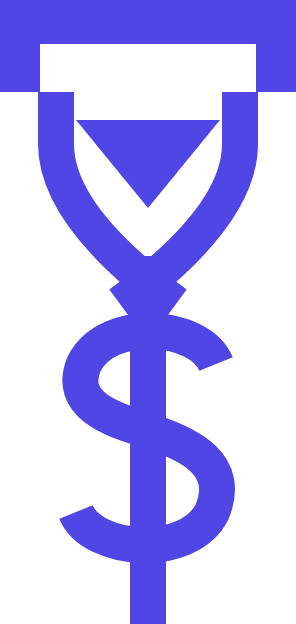
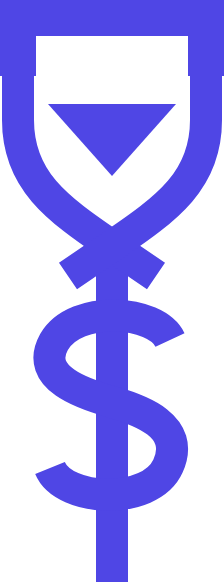
Refine isotipo trace, restore Geist, simplify interim OG image
- Isotipo placeholder re-traced closer to the official mark: symmetric X
  crossing built geometrically, square stroke caps, cleaner funnel walls and $.
  Favicon regenerated accordingly.
- Bring back Geist Sans as the app typeface.
- Opengraph image reduced to a clean lockup + "Trackeá tus horas." headline on
  Light Slate — the recreated floating patterns are gone; the official PNG can
  drop in as src/app/opengraph-image.png when available.
- Landing structure untouched: only logo and indigo palette changed, as before.

Claude-Session: https://claude.ai/code/session_01FHNmgNQmNMMfabfv4jdnkh

diff --git a/src/app/opengraph-image.tsx b/src/app/opengraph-image.tsx
@@ -7,49 +7,11 @@ export const contentType = "image/png";
 const INDIGO = "#4f46e5";
 const DARK = "#1e293b";
 
-function Isotipo({ height }: { height: number }) {
-  return (
-    <svg width={(height * 74) / 156} height={height} viewBox="13 6 74 156" fill="none">
-      <rect x="13" y="6" width="74" height="11" fill={INDIGO} />
-      <rect x="13" y="17" width="10" height="12" fill={INDIGO} />
-      <rect x="77" y="17" width="10" height="12" fill={INDIGO} />
-      <path d="M32 36 L68 36 L50 58 Z" fill={INDIGO} />
-      <rect x="45.5" y="70" width="9" height="92" fill={INDIGO} />
-      <path d="M27 29 V42 Q27 60 57 82" stroke={INDIGO} strokeWidth="9" fill="none" />
-      <path d="M73 29 V42 Q73 60 43 82" stroke={INDIGO} strokeWidth="9" fill="none" />
-      <path
-        d="M67 97 C63 87 40 85 34 97 C29 109 46 112 51 114 C60 117 71 122 66 134 C60 146 36 144 32 134"
-        stroke={INDIGO}
-        strokeWidth="9"
-        fill="none"
-      />
-    </svg>
-  );
-}
-
-/** Tile flotante decorativo con manecillas de reloj (patrón sutil de marca). */
-function ClockTile({ size: s, rotate }: { size: number; rotate: number }) {
-  return (
-    <div
-      style={{
-        display: "flex",
-        width: s,
-        height: s,
-        borderRadius: s * 0.22,
-        background: "#c7d2fe",
-        opacity: 0.55,
-        transform: `rotate(${rotate}deg)`,
-        alignItems: "center",
-        justifyContent: "center",
-      }}
-    >
-      <svg width={s * 0.5} height={s * 0.5} viewBox="0 0 24 24" fill="none">
-        <path d="M12 5v7l5 3" stroke={INDIGO} strokeWidth="2.5" strokeLinecap="round" />
-      </svg>
-    </div>
-  );
-}
-
+/**
+ * Versión provisional de la imagen social: lockup + headline sobre Light Slate.
+ * Se reemplaza por el asset oficial guardándolo como src/app/opengraph-image.png
+ * (y borrando este archivo).
+ */
 export default function OpengraphImage() {
   return new ImageResponse(
     (
@@ -63,82 +25,32 @@ export default function OpengraphImage() {
           justifyContent: "center",
           background: "#f1f5f9",
           fontFamily: "sans-serif",
-          position: "relative",
         }}
       >
-        {/* Patrones sutiles flotantes */}
-        <div style={{ display: "flex", position: "absolute", top: -40, left: 120 }}>
-          <ClockTile size={150} rotate={-14} />
-        </div>
-        <div style={{ display: "flex", position: "absolute", top: 40, right: -30 }}>
-          <ClockTile size={190} rotate={10} />
-        </div>
-        <div style={{ display: "flex", position: "absolute", bottom: -50, left: -20 }}>
-          <ClockTile size={170} rotate={8} />
-        </div>
-        <div style={{ display: "flex", position: "absolute", bottom: 40, right: 200 }}>
-          <ClockTile size={110} rotate={-10} />
-        </div>
-        <div
-          style={{
-            position: "absolute",
-            top: 130,
-            left: 90,
-            fontSize: 84,
-            fontWeight: 700,
-            color: "#a5b4fc",
-            opacity: 0.6,
-            transform: "rotate(-12deg)",
-          }}
-        >
-          $
-        </div>
-        <div
-          style={{
-            position: "absolute",
-            bottom: 90,
-            right: 90,
-            fontSize: 72,
-            fontWeight: 700,
-            color: "#a5b4fc",
-            opacity: 0.6,
-            transform: "rotate(10deg)",
-          }}
-        >
-          $
-        </div>
-        <div
-          style={{
-            position: "absolute",
-            top: 250,
-            right: 60,
-            display: "flex",
-            background: "#c7d2fe",
-            opacity: 0.6,
-            color: "#ffffff",
-            fontWeight: 700,
-            fontSize: 34,
-            padding: "10px 22px",
-            borderRadius: 16,
-            transform: "rotate(8deg)",
-          }}
-        >
-          USD
-        </div>
-
-        {/* Lockup */}
         <div style={{ display: "flex", alignItems: "center", gap: 20 }}>
-          <Isotipo height={95} />
-          <div style={{ fontSize: 56, fontWeight: 600, color: DARK, letterSpacing: -1 }}>
+          <svg width={46} height={95} viewBox="22 10 56 145.5" fill="none">
+            <rect x="22" y="10" width="56" height="9" fill={INDIGO} />
+            <rect x="22" y="19" width="9" height="10" fill={INDIGO} />
+            <rect x="69" y="19" width="9" height="10" fill={INDIGO} />
+            <path d="M34 36 L66 36 L50 54 Z" fill={INDIGO} />
+            <rect x="46" y="71.5" width="8" height="84" fill={INDIGO} />
+            <path d="M26.5 29 L26.5 40 C26.5 55 36 62 50 71.5 L61 79" stroke={INDIGO} strokeWidth="8" fill="none" />
+            <path d="M73.5 29 L73.5 40 C73.5 55 64 62 50 71.5 L39 79" stroke={INDIGO} strokeWidth="8" fill="none" />
+            <path
+              d="M64.5 95 C61 87.5 41 86 35.5 95.5 C30.5 104.5 43 108.5 50 110.5 C57 112.5 68.5 116.5 64 126.5 C59.5 136.5 38 135.5 34.5 127"
+              stroke={INDIGO}
+              strokeWidth="8"
+              fill="none"
+            />
+          </svg>
+          <div style={{ fontSize: 54, fontWeight: 600, color: DARK, letterSpacing: -1 }}>
             Registruti
           </div>
         </div>
-
-        {/* Headline */}
         <div
           style={{
-            marginTop: 70,
-            fontSize: 88,
+            marginTop: 64,
+            fontSize: 92,
             fontWeight: 700,
             letterSpacing: -3,
             color: DARK,

diff --git a/src/app/layout.tsx b/src/app/layout.tsx
@@ -1,4 +1,5 @@
 import type { Metadata, Viewport } from "next";
+import { GeistSans } from "geist/font/sans";
 import { SITE_DESCRIPTION, SITE_NAME, SITE_TITLE, SITE_URL } from "@/lib/site";
 import "./globals.css";
 
@@ -56,7 +57,7 @@ export const metadata: Metadata = {
 
 export default function RootLayout({ children }: { children: React.ReactNode }) {
   return (
-    <html lang="es">
+    <html lang="es" className={GeistSans.className}>
       <body>{children}</body>
     </html>
   );